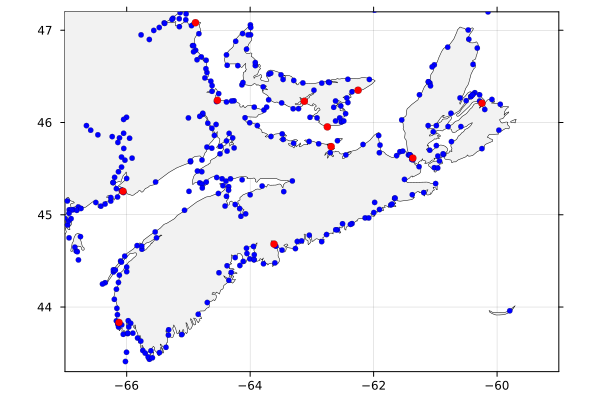
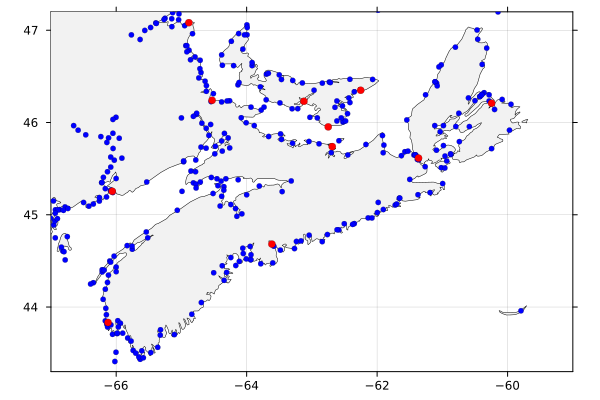
Use better lat for NS tide-gauge map

diff --git a/docs/src/examples.md b/docs/src/examples.md
@@ -423,7 +423,7 @@ gauges.
 using OceanAnalysis, Plots
 i = get_tide_gauge_index(:all);
 scatter(i.longitude, i.latitude,
-    aspect_ratio=1.0 / cos(48.0 * pi / 180),
+    aspect_ratio=1.0 / cos(45.0 * pi / 180),
     framestyle=:box, tickdirection=:out, label=false, ms=0,
     xlim=(-67, -59), ylim=(43.3, 47.2))
 plot_coastline!(coastline(:global_fine), fillcolor=:gray95)
